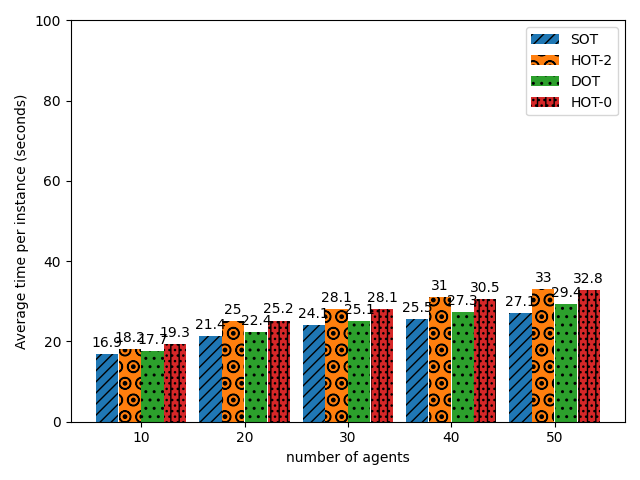
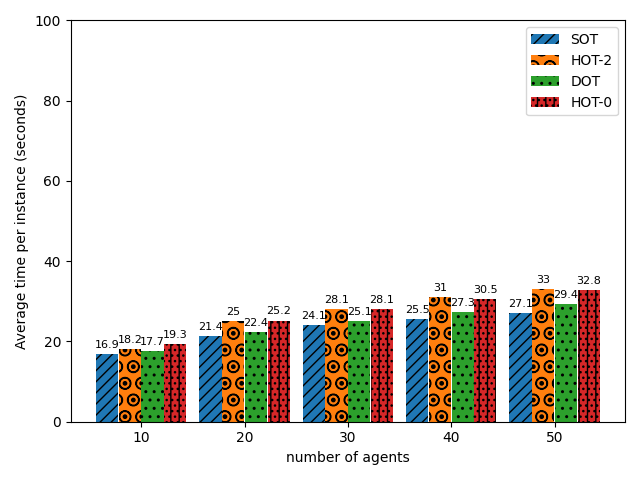
final results

Changed region(s): [[0.125, 0.5938, 0.8438, 0.75], [0.8438, 0.5625, 0.9375, 0.625]]

diff --git a/performences/create_diagram.py b/performences/create_diagram.py
@@ -7,7 +7,7 @@ import os
 
 NUMBER_OF_RUNS = 50
 MAP_NAME = "room-32.map"
-RESULTS_FOLDER = "results/old_runs/5/room_32/"
+RESULTS_FOLDER = "results/old_runs/4/room_32/"
 FILE_PATTERN = "*_performence_results.json"
 RESULT_FILE_NAME = "performence_results.json"
 RESULT_FILE_PATH = os.path.join(RESULTS_FOLDER, RESULT_FILE_NAME)
@@ -167,7 +167,7 @@ def plot_sat_graph(mode):
         plt.ylim(0, ylim)
     elif mode == "avg_paths_length":
         ax.set_ylabel('Average path length for SAT instances')
-        ylim = 25 if MAP_NAME == "room-32.map" else 25
+        ylim = 60 if MAP_NAME == "maze-32.map" else 25
         plt.ylim(0, ylim)
     elif mode == "coverage_percentage_DOT":
         ax.set_ylabel('% Coverage of DOT for non-SAT instances')
@@ -179,11 +179,11 @@ def plot_sat_graph(mode):
     ax.set_xticks(x, labels)
     ax.legend()
 
-    ax.bar_label(rects1, padding=3)
+    ax.bar_label(rects1, padding=3, fontsize=8)
     if mode != "coverage_percentage_DOT":
-        ax.bar_label(rects2, padding=3)
-        ax.bar_label(rects3, padding=3)
-        ax.bar_label(rects4, padding=3)
+        ax.bar_label(rects2, padding=3, fontsize=8)
+        ax.bar_label(rects3, padding=3, fontsize=8)
+        ax.bar_label(rects4, padding=3, fontsize=8)
 
 
     fig.tight_layout()
